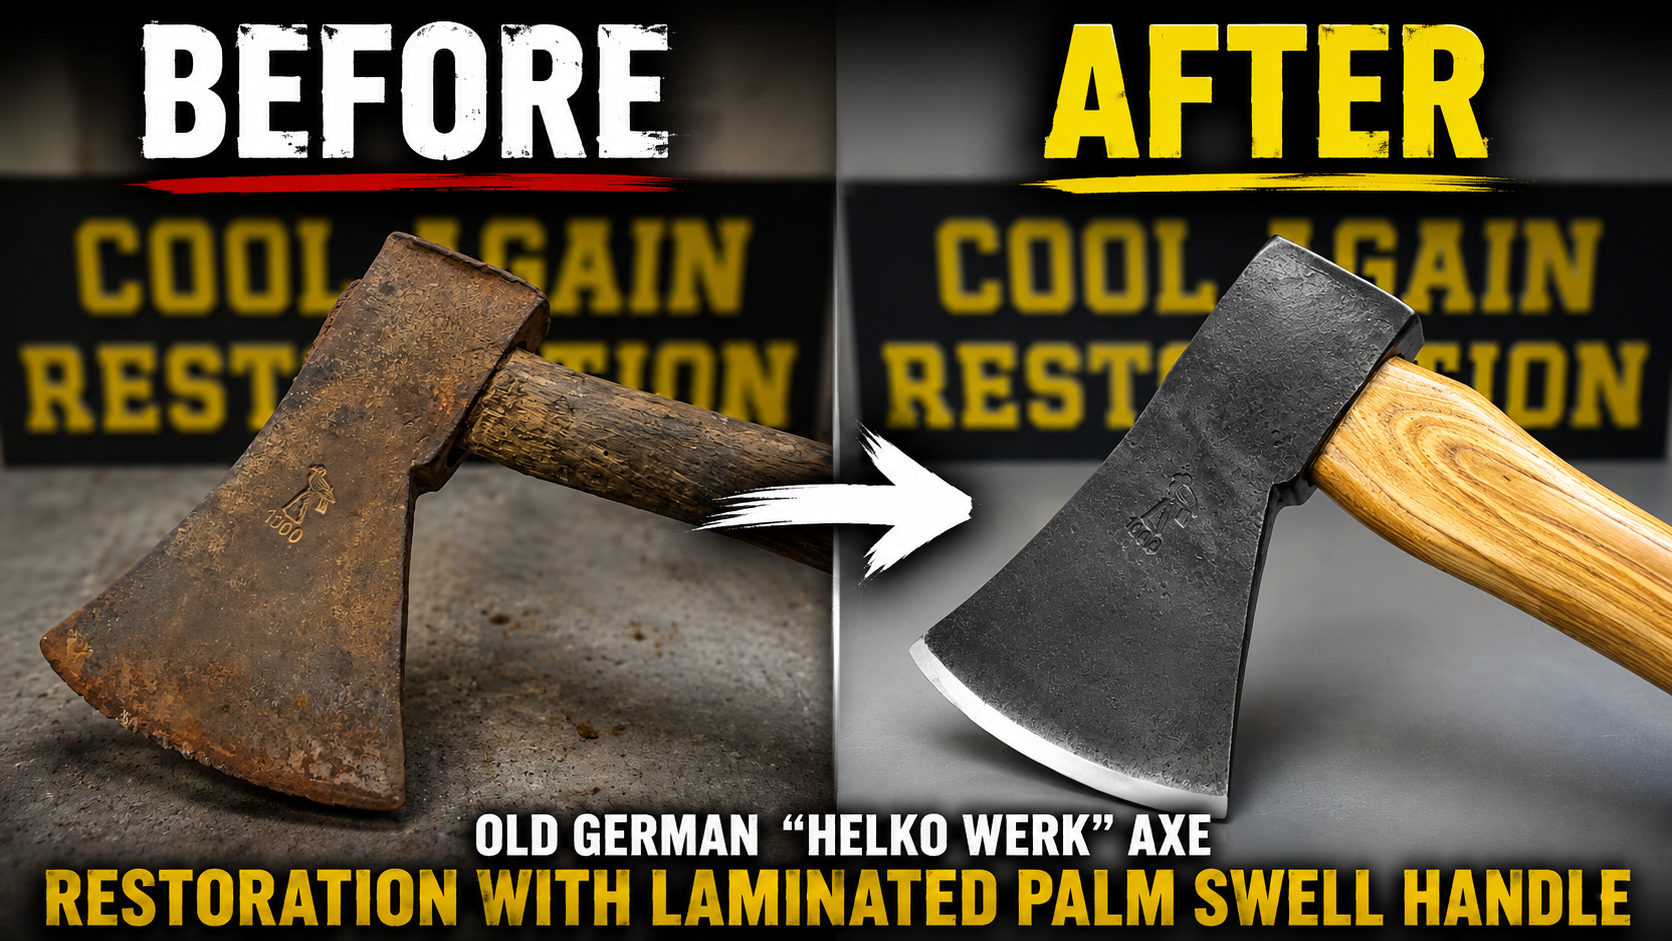
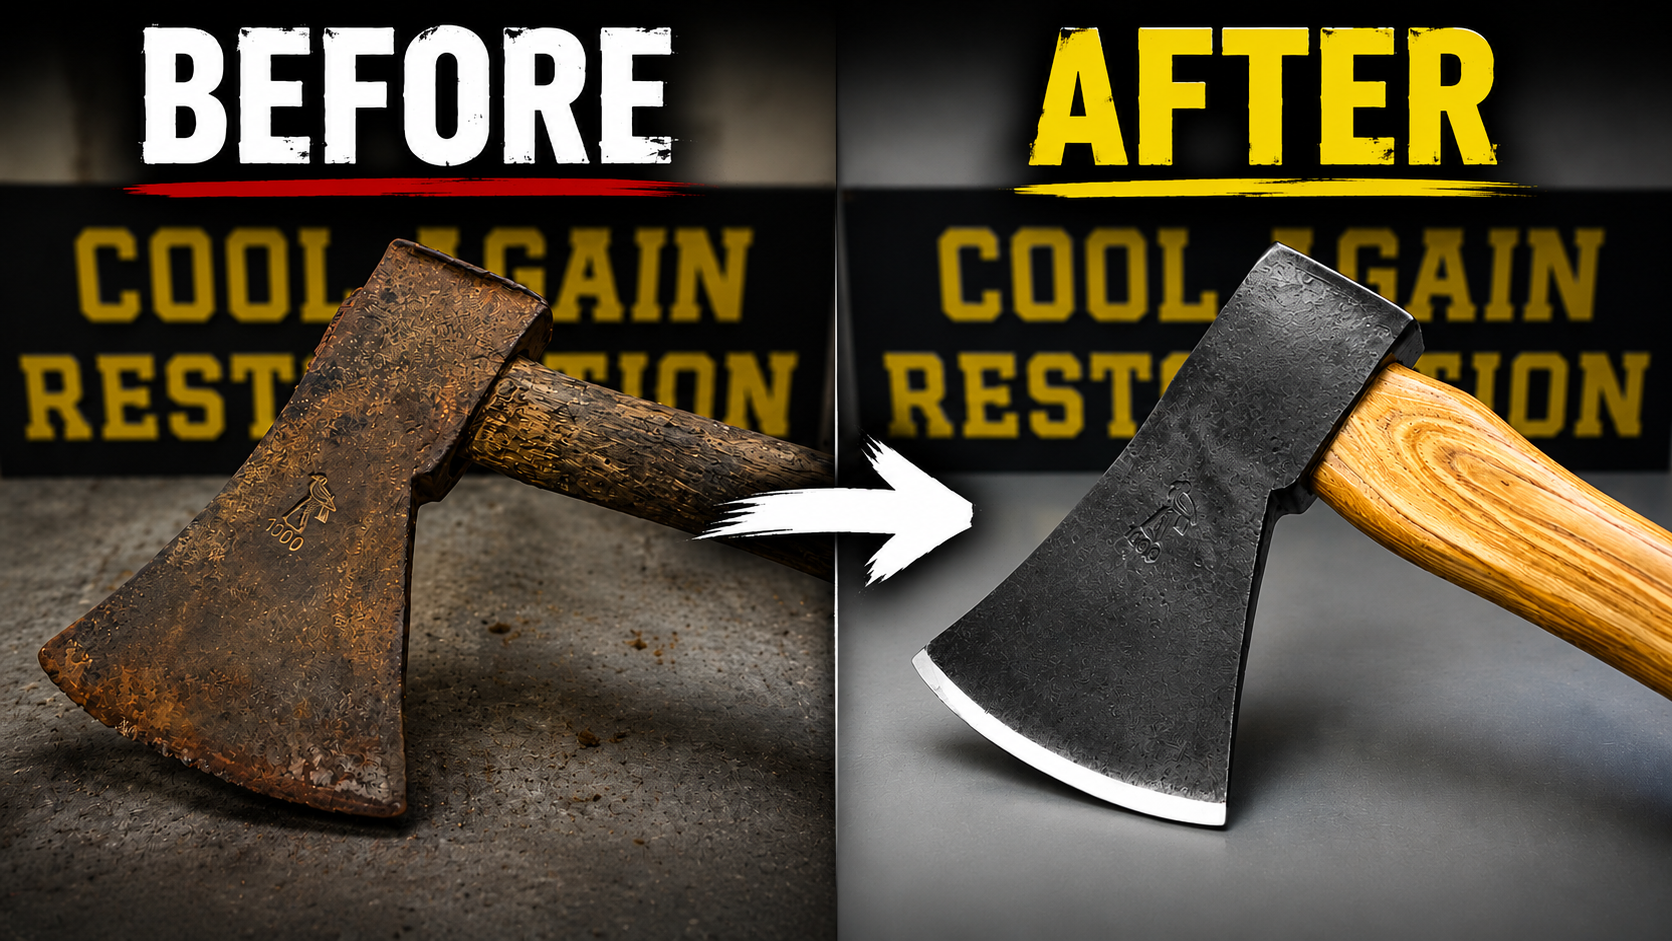
rs

diff --git a/src/pages/Results.tsx b/src/pages/Results.tsx
@@ -56,7 +56,7 @@ const projects = [
     id: 4,
     title: "Restoration",         // CHANGE: project title
     creator: "Cool Again Restoration",           // CHANGE: creator name
-    thumbnail: "/image4", // CHANGE: thumbnail URL
+    thumbnail: "/image4_1.png", // CHANGE: thumbnail URL
     videoUrl: "https://www.snapchat.com/p/3a3ba2c4-6988-40bd-b665-376e38566ab8/1146091361204224", // CHANGE: video link
     stats: "2M+ Views",                        // CHANGE: headline stat
     platforms: ["Snapchat"] // CHANGE: platforms used
